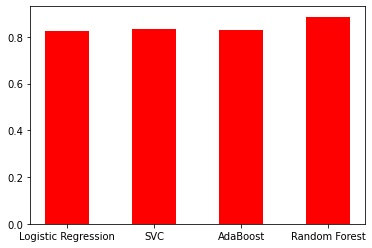
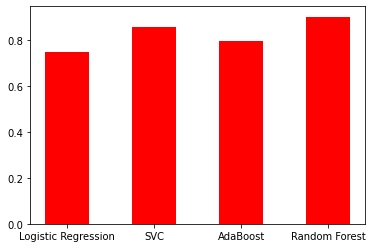
updated Readme

diff --git a/README.md b/README.md
@@ -8,7 +8,8 @@ We set out to build a classification model that would classify the wine by good 
 
 1. Converting the quality variable from one that varies from 1 to 9, to a binary variable(0-1)
 2. Removing highly correlated features
-3. Scaling the data 
+3. Oversampling the data using the SMOTE algorithm to rebalance the dataset
+4. Scaling the data 
 
 # Trying out various classification models 
 
